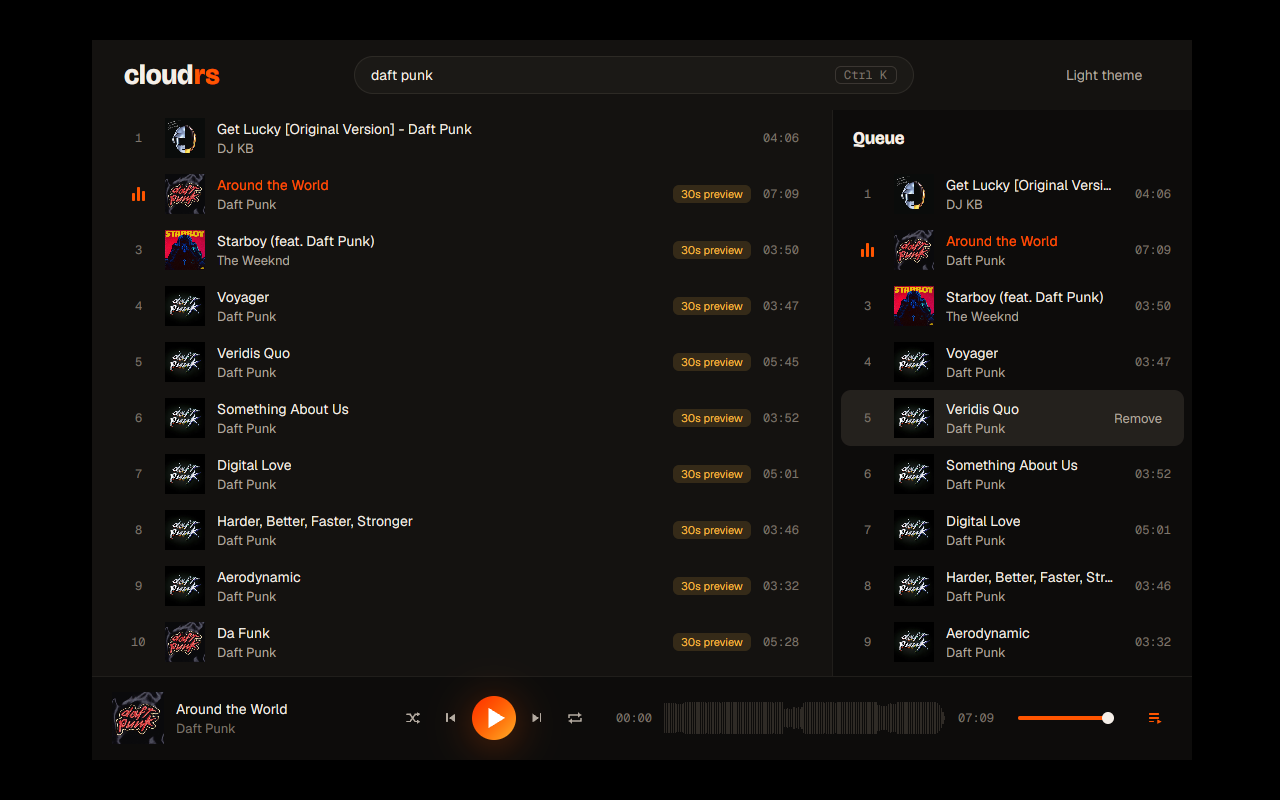
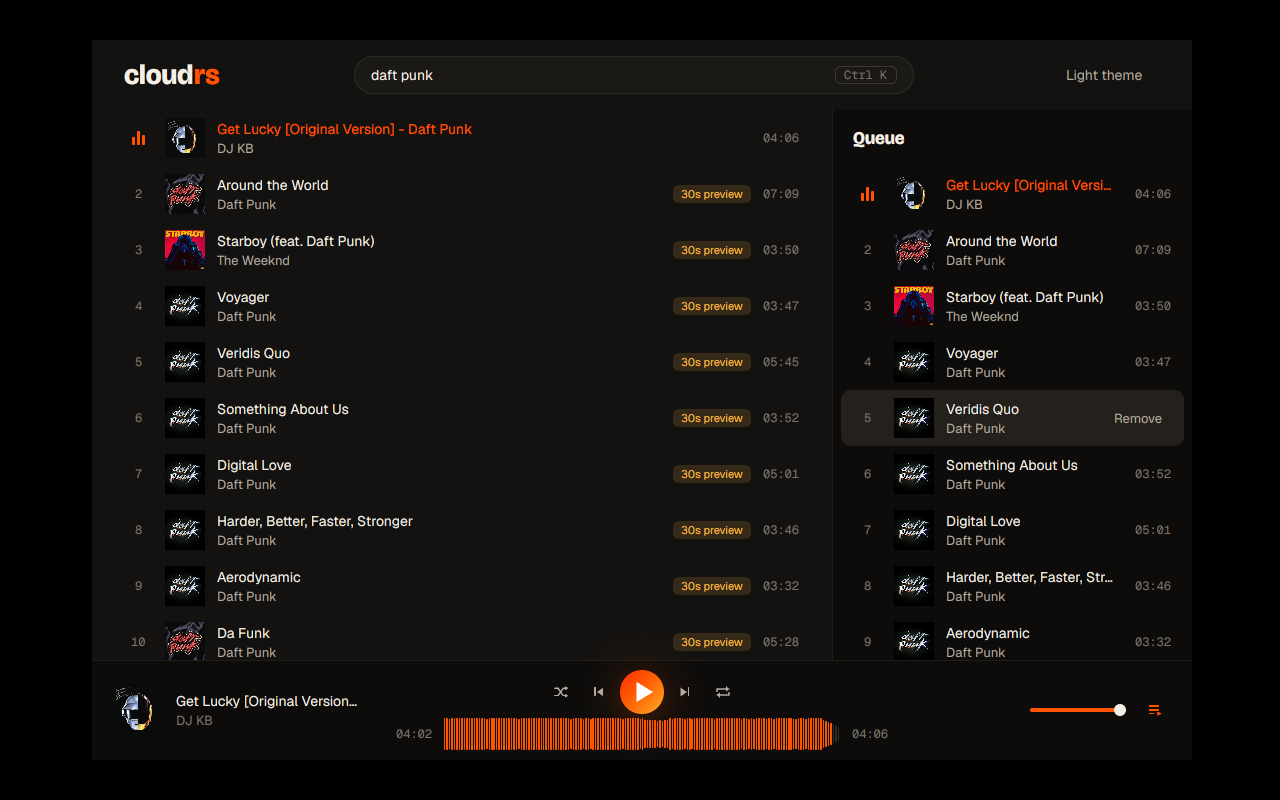
feat(app): lay the player bar out as a centre column
Transport (shuffle, previous, play, next, repeat) on top and a wide waveform
with the elapsed and total time underneath, artwork and title on the left,
volume and the queue button on the right; the bar is 100 px tall (token).
VISUAL-IDENTITY describes the new layout; ADR 0007 records it with the
corrupt-database and shutdown decisions. The queue screenshots are retaken
and a player-bar shot is added for each theme.

Validated in a Linux container (Smart App Control blocks cargo on the Windows host); audio not heard.

diff --git a/apps/cloudrs/src/player_bar.rs b/apps/cloudrs/src/player_bar.rs
@@ -187,7 +187,7 @@ impl Render for PlayerBar {
             .unwrap_or_else(|| self.flat_waveform.clone());
         let timeline = div()
             .flex()
-            .flex_1()
+            .w_full()
             .items_center()
             .gap(space::S3)
             .when(!active, |timeline| {
@@ -234,6 +234,36 @@ impl Render for PlayerBar {
             .aria_label(t::volume())
             .tooltip(tooltip(t::volume())),
         );
+        // Transport on top, the waveform with both times underneath.
+        let centre = div()
+            .flex()
+            .flex_col()
+            .flex_1()
+            .min_w(px(0.0))
+            .items_center()
+            .gap(space::S1)
+            .child(
+                div()
+                    .flex()
+                    .items_center()
+                    .gap(space::S1)
+                    .child(shuffle)
+                    .child(previous)
+                    .child(play)
+                    .child(next)
+                    .child(repeat),
+            )
+            .child(timeline);
+        // As wide as the left block, so the centre column is truly centred.
+        let right = div()
+            .flex()
+            .flex_none()
+            .items_center()
+            .justify_end()
+            .gap(space::S3)
+            .w(size::PLAYER_INFO_WIDTH)
+            .child(volume)
+            .child(queue);
 
         div()
             .flex()
@@ -245,20 +275,7 @@ impl Render for PlayerBar {
             .border_t_1()
             .border_color(c.line)
             .child(info)
-            .child(
-                div()
-                    .flex()
-                    .flex_none()
-                    .items_center()
-                    .gap(space::S1)
-                    .child(shuffle)
-                    .child(previous)
-                    .child(play)
-                    .child(next)
-                    .child(repeat),
-            )
-            .child(timeline)
-            .child(volume)
-            .child(queue)
+            .child(centre)
+            .child(right)
     }
 }

diff --git a/crates/cloudrs-ui/src/tokens.rs b/crates/cloudrs-ui/src/tokens.rs
@@ -214,7 +214,7 @@ pub mod size {
     pub const ROW_INDEX: Pixels = px(28.0);
     /// Cover in the player bar.
     pub const PLAYER_COVER: Pixels = px(52.0);
-    pub const PLAYER_HEIGHT: Pixels = px(84.0);
+    pub const PLAYER_HEIGHT: Pixels = px(100.0);
     /// Width of the player bar's now-playing block.
     pub const PLAYER_INFO_WIDTH: Pixels = px(260.0);
     pub const PLAY_BUTTON: Pixels = px(44.0);

diff --git a/docs/adr/0007-m2-queue-and-persistence.md b/docs/adr/0007-m2-queue-and-persistence.md
@@ -36,6 +36,20 @@ next" and "add to queue", and listening together (ADR 0006) is built on the host
 9. **Queue UI.** A side panel on the right, opened from a queue button in the player bar.
    Reorder by drag and drop, with the motion catalog's lift, accent outline and neighbors
    springing aside.
+10. **A damaged database is reset, not fatal.** The file is renamed to
+    `cloudrs.db.corrupt-<unix time>`, a new empty one is created and the person is told with a
+    toast (`Problem::StorageReset`). A database written by a newer build is left untouched
+    and not used (the app runs without saving) instead of being downgraded. The migration
+    runs in one transaction with `user_version`, and a connection waits up to 2 s for a
+    second instance.
+11. **Orderly shutdown.** Closing the window sends `Command::Shutdown`. The core saves the
+    session on its own thread (no `spawn_blocking`; the store lock waits for a write in
+    progress), answers `Event::Stopped` and stops. The app waits up to 500 ms for the reply
+    before quitting. A core that never changed anything does not write on exit, so a second
+    instance cannot overwrite the saved session.
+12. **Player bar layout.** A centre column, as in Spotify: transport on top, a wide waveform
+    underneath with both times, artwork and title on the left, volume and the queue button on
+    the right. The bar grows from 84 px to 100 px.
 
 ## Consequences
 
@@ -51,6 +65,12 @@ live SoundCloud. Audio was not heard.
 |---|---|---|
 | ![](../assets/readme/m2-queue-dark.png) | ![](../assets/readme/m2-queue-light.png) | ![](../assets/readme/m2-queue-drag.png) |
 
+The player bar with the centre column:
+
+| Dark | Light |
+|---|---|
+| ![](../assets/readme/m2-player-dark.png) | ![](../assets/readme/m2-player-light.png) |
+
 ## Known limits
 
 - While dragging, the neighbors do not spring aside (motion catalog 7): the dragged row is
@@ -58,7 +78,8 @@ live SoundCloud. Audio was not heard.
 - Row actions ("Play next", "Add to queue", "Remove") appear on hover only, so a keyboard user
   cannot reach them yet. The panel rows, the player bar buttons and the queue button are focusable.
 - The current track cannot be removed from the queue.
-- The session is saved on queue changes, on pause and every 5 s while playing; closing the
-  window between saves loses at most that interval.
+- The session is saved on queue changes, on pause, every 5 s while playing, a second after the
+  volume stops changing and when the window closes (not when the OS kills the app, or on
+  Cmd-Q, which skips the window hook).
 - Turning shuffle off after a restart keeps the restored order, since the pre-shuffle order is
   not saved.

diff --git a/docs/design/VISUAL-IDENTITY.md b/docs/design/VISUAL-IDENTITY.md
@@ -152,11 +152,12 @@ The OS "reduce motion" setting turns every duration down to an instant change.
   - the active row shows the equalizer and the accent title.
 - **Card:** square cover; the play button rises on hover.
 - **Toast:** artwork or status icon, text, optional action ("Undo").
-- **PlayerBar:**
-  - now playing + like;
-  - transport controls with the gradient play button;
-  - waveform with timed-comment pins;
-  - queue and volume.
+- **PlayerBar:** about 100 px tall, in three blocks with the centre column in the middle:
+  - left: artwork, title and artist (+ like);
+  - centre: the transport row on top (shuffle, previous, the gradient play button, next,
+    repeat, centred) and, underneath, a wide waveform with the elapsed time on its left and
+    the total on its right (timed-comment pins later);
+  - right: volume and the queue button.
 - **Sidebar:** brand, main navigation with an accent rail on the active item, "Your playlists".
 
 Every surface has the full set of states: loading (skeleton), empty (what fills it), error (with
